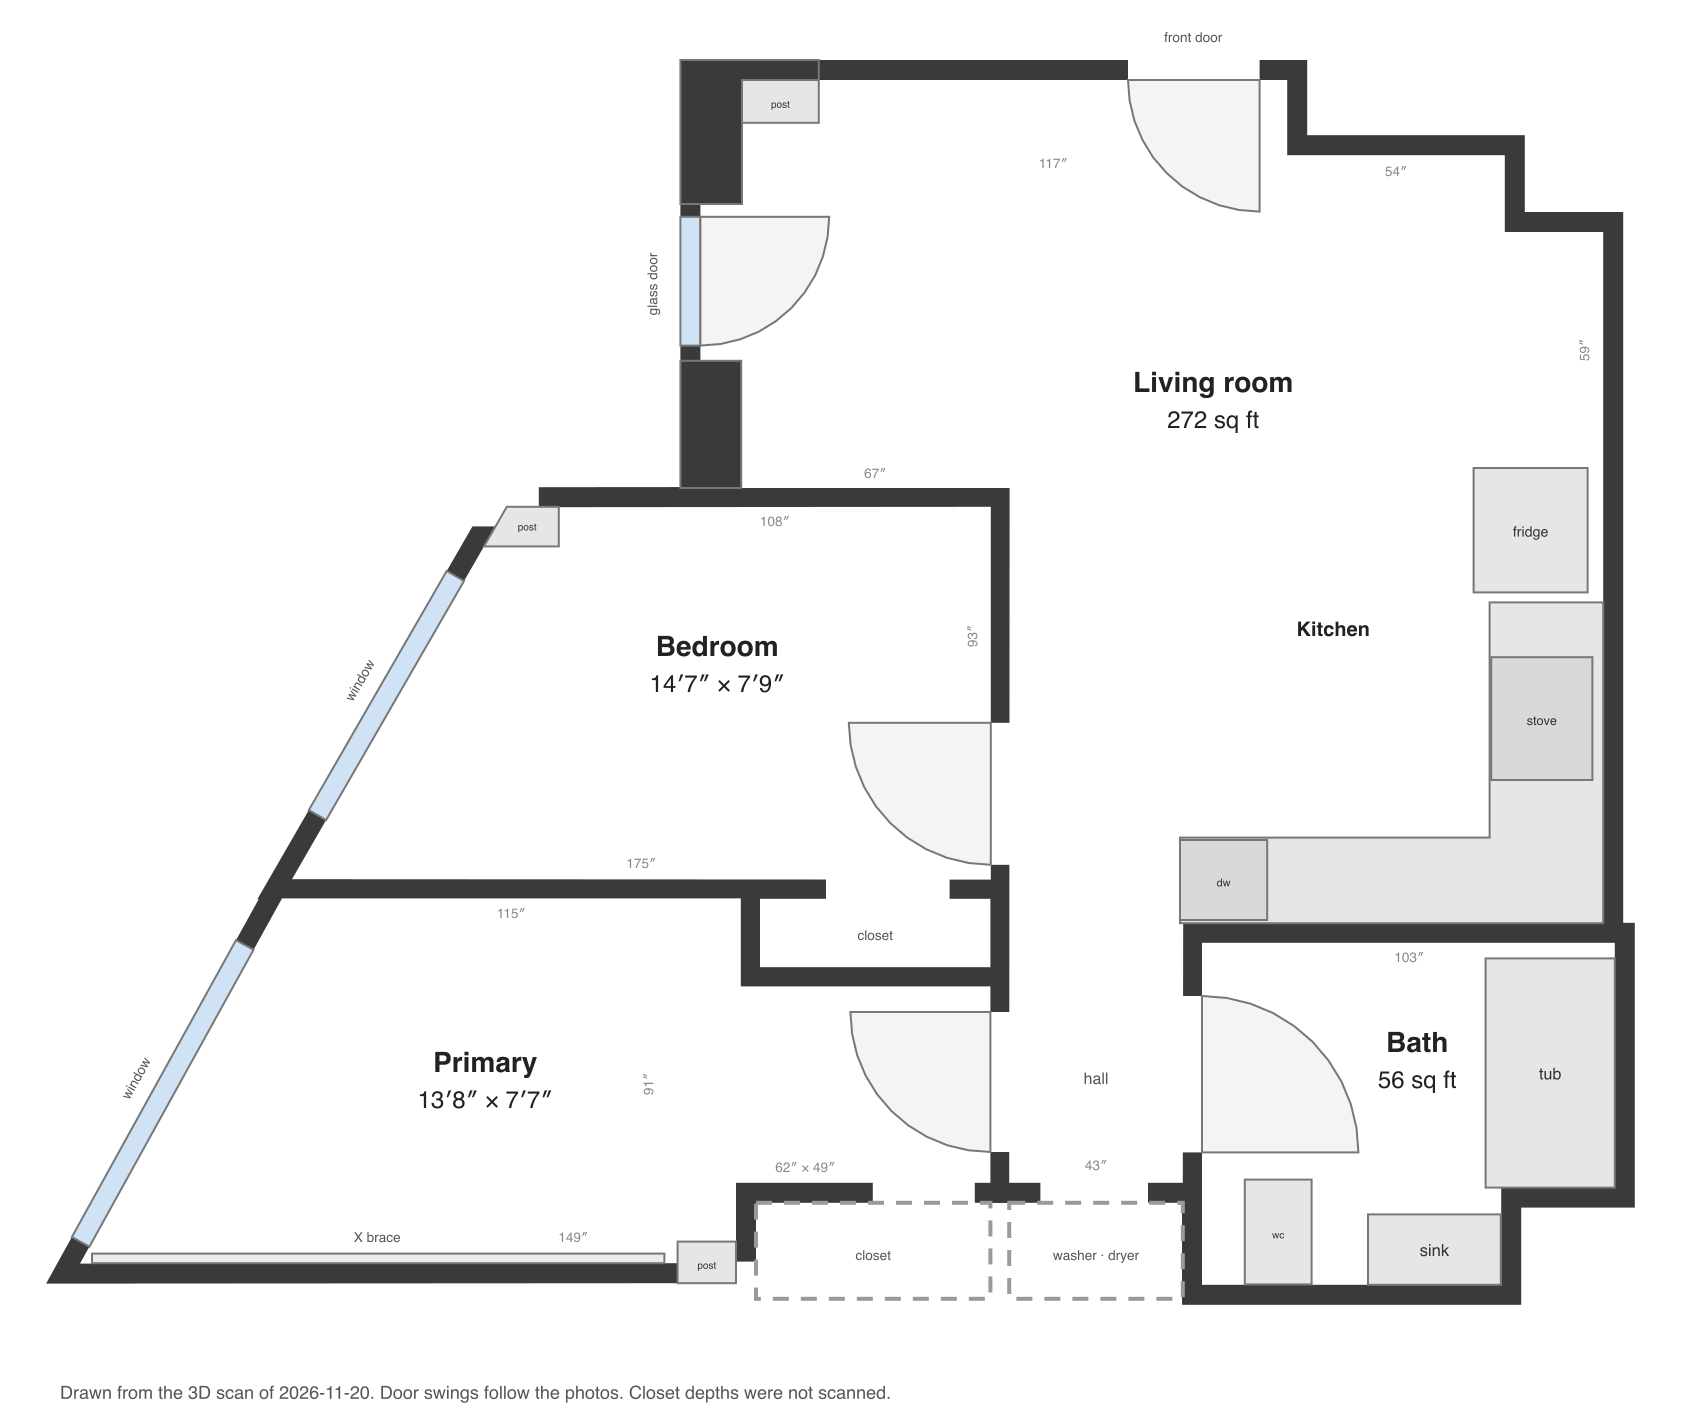
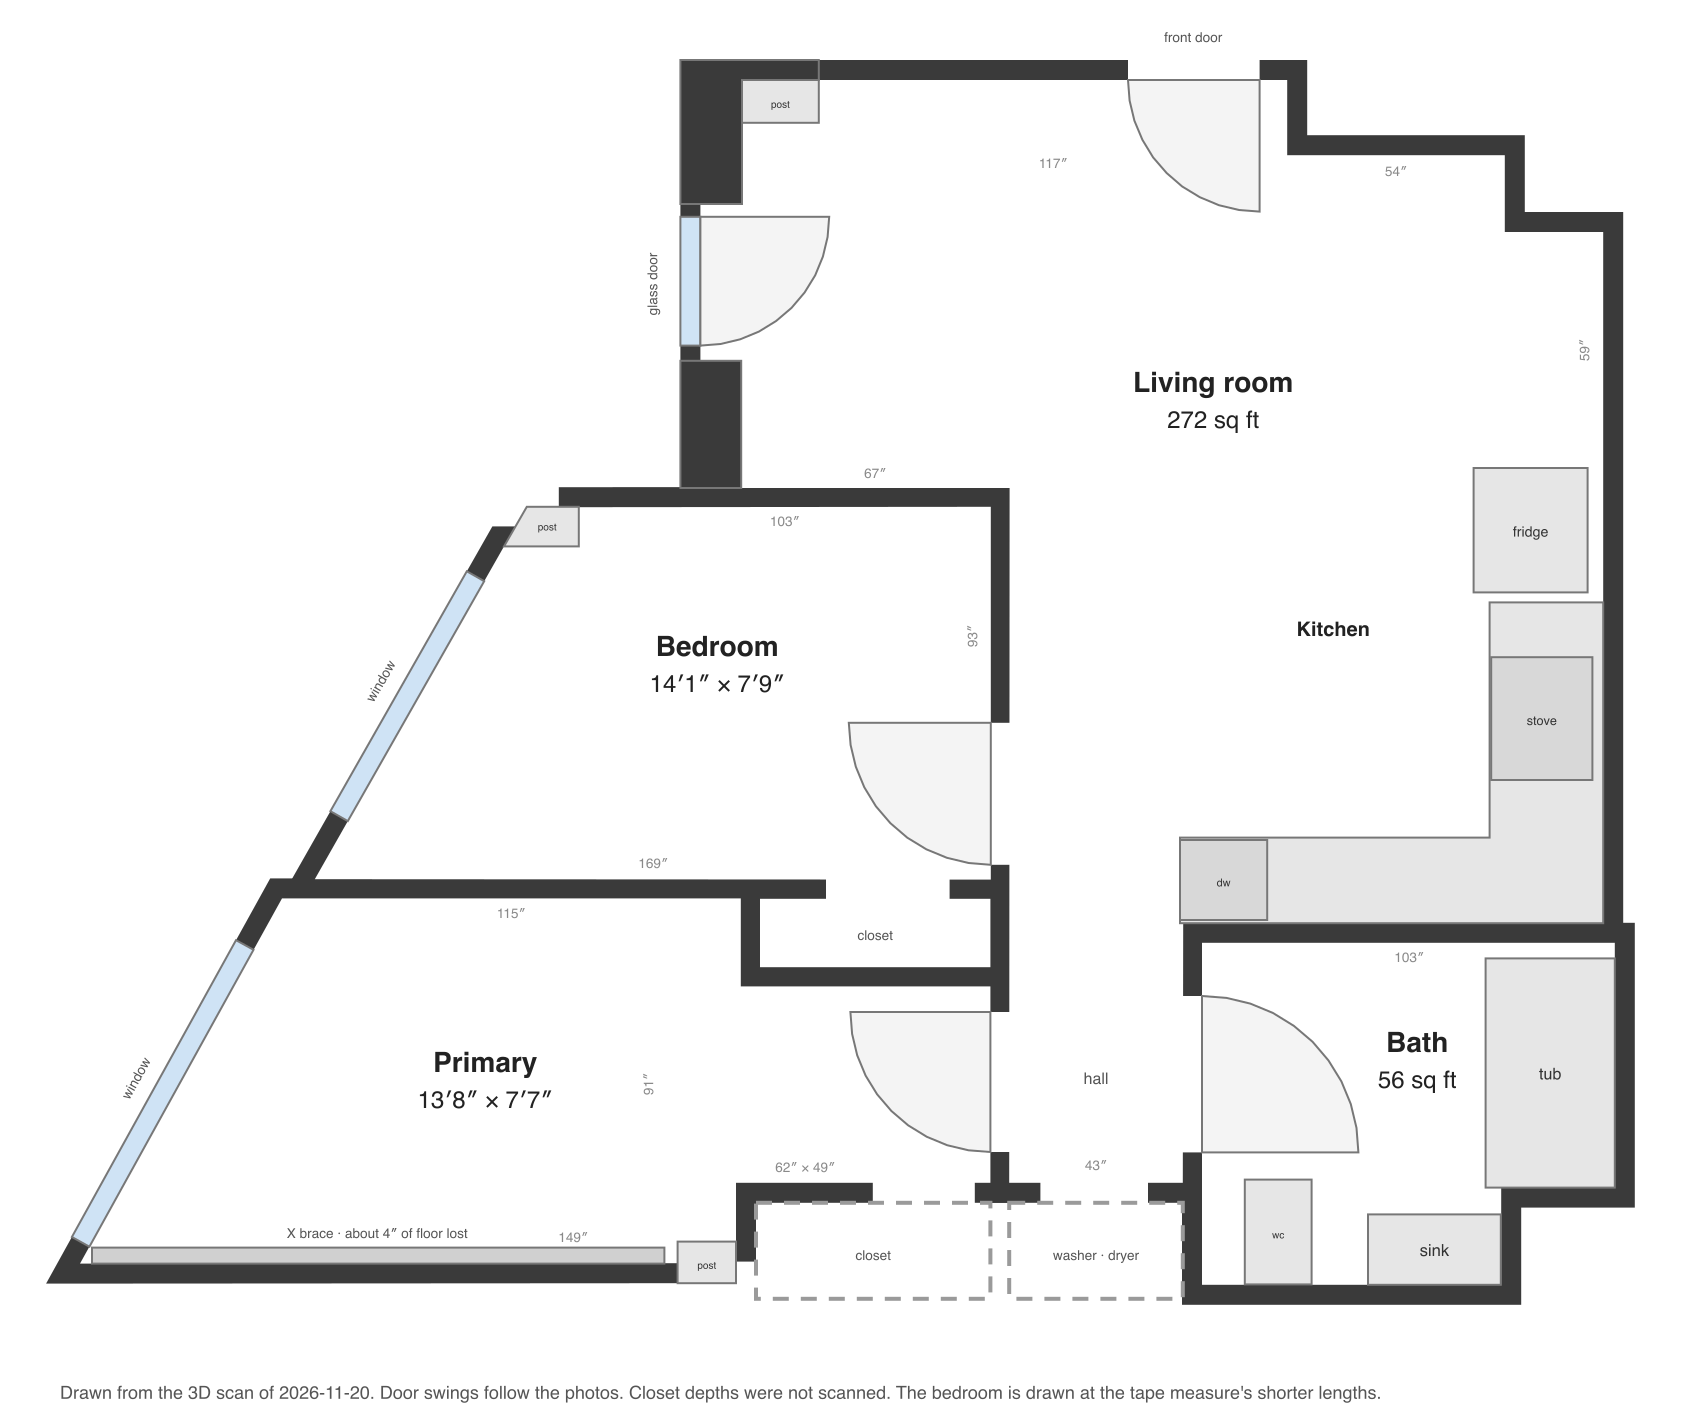
Fit check: the scanned bedroom at the tape's shorter lengths; the X brace takes 4 in of floor
The scan read the bedroom 5 to 6 in longer than the tape and nothing settles
which is right, so its window wall and post are drawn in at 169 and 103. The
Primary's X brace is drawn as 4 in of floor that cannot be used and the bed
moves clear of it.

Claude-Session: https://claude.ai/code/session_01QpPvhx88qaX3FdiLUqKKqP

Changed region(s): [[0.1545, 0.3401, 0.3399, 0.6184], [0.0618, 0.8658, 0.4017, 0.8967], [0.5561, 0.9585, 0.8033, 0.9895]]

diff --git a/testing/fit-check.html b/testing/fit-check.html
@@ -261,6 +261,7 @@ const BUILT_IN = [
     ] },
   // The same apartment from a 3D room scan (magicplan, 2026-11-20): the rooms sit where they really join.
   // Door swings follow photos; the scan read the Primary's window and its X brace as doors.
+  // The bedroom is drawn at the tape's shorter lengths (169 and 103, the scan read 175 and 108); the X brace takes about 4 in of floor.
   // tools/draw-plan.js draws it from testing/plans/apartment-scanned.plan.json.
   { id:'scanned-apartment', name:'The apartment · 3D scan', img:{ src:'plans/apartment-scanned.png', w:1683, h:1423 }, ppi:4,
     furniture:[
@@ -268,7 +269,7 @@ const BUILT_IN = [
       // the bedroom
       {name:'Queen bed',w:60,d:80,x:149.3,y:127.2,r:0},{name:'Hanger Rack',w:28,d:16,x:213.3,y:127.2,r:0},{name:'Ottoman',w:32,d:16,x:231.3,y:144,r:90},{name:'Matteo’s desk',w:48,d:24,x:100.3,y:195.4,r:0},{name:'Desk Chair',w:25,d:27,x:111.3,y:168,r:0},
       // the Primary; the TV leans along the window wall
-      {name:'Queen bed',w:60,d:80,x:89.3,y:255.3,r:90},{name:'Side Table',w:14,d:18,x:169.7,y:292.2,r:0},{name:'Side Table',w:14,d:18,x:74.8,y:271,r:0},{name:'TV',w:60,d:16,x:38.99,y:230.09,r:118.95},{name:'Dresser',w:34,d:16,x:184.2,y:279.5,r:0},{name:'mirror 1',w:31,d:2.5,x:128.3,y:224.9,r:0},{name:'Wood Chair',w:22,d:22,x:93.3,y:225,r:0},
+      {name:'Queen bed',w:60,d:80,x:89.3,y:251.6,r:90},{name:'Side Table',w:14,d:18,x:169.7,y:292.2,r:0},{name:'Side Table',w:14,d:18,x:74.8,y:271,r:0},{name:'TV',w:60,d:16,x:38.99,y:230.09,r:118.95},{name:'Dresser',w:34,d:16,x:184.2,y:279.5,r:0},{name:'mirror 1',w:31,d:2.5,x:128.3,y:224.9,r:0},{name:'Wood Chair',w:22,d:22,x:93.3,y:225,r:0},
       // the living room
       {name:'TV',w:60,d:16,x:207.8,y:20.5,r:0},{name:'Floor lamp',w:19.75,d:19.75,x:186,y:31,r:0},{name:'Couch A',w:40,d:40,x:192.3,y:81.8,r:0},{name:'Couch B',w:40,d:40,x:232.3,y:81.8,r:0},{name:'Coffee table',w:40,d:18,x:212.3,y:57,r:0},{name:'Games',w:28,d:14,x:272.8,y:93.8,r:90},{name:'mirror 2',w:31,d:2.5,x:185.6,y:90.6,r:90},{name:'Couch C',w:40,d:40,x:252.8,y:122.5,r:0},{name:'cubbys',w:30,d:18,x:252.8,y:162.6,r:0},
       // by the front door
